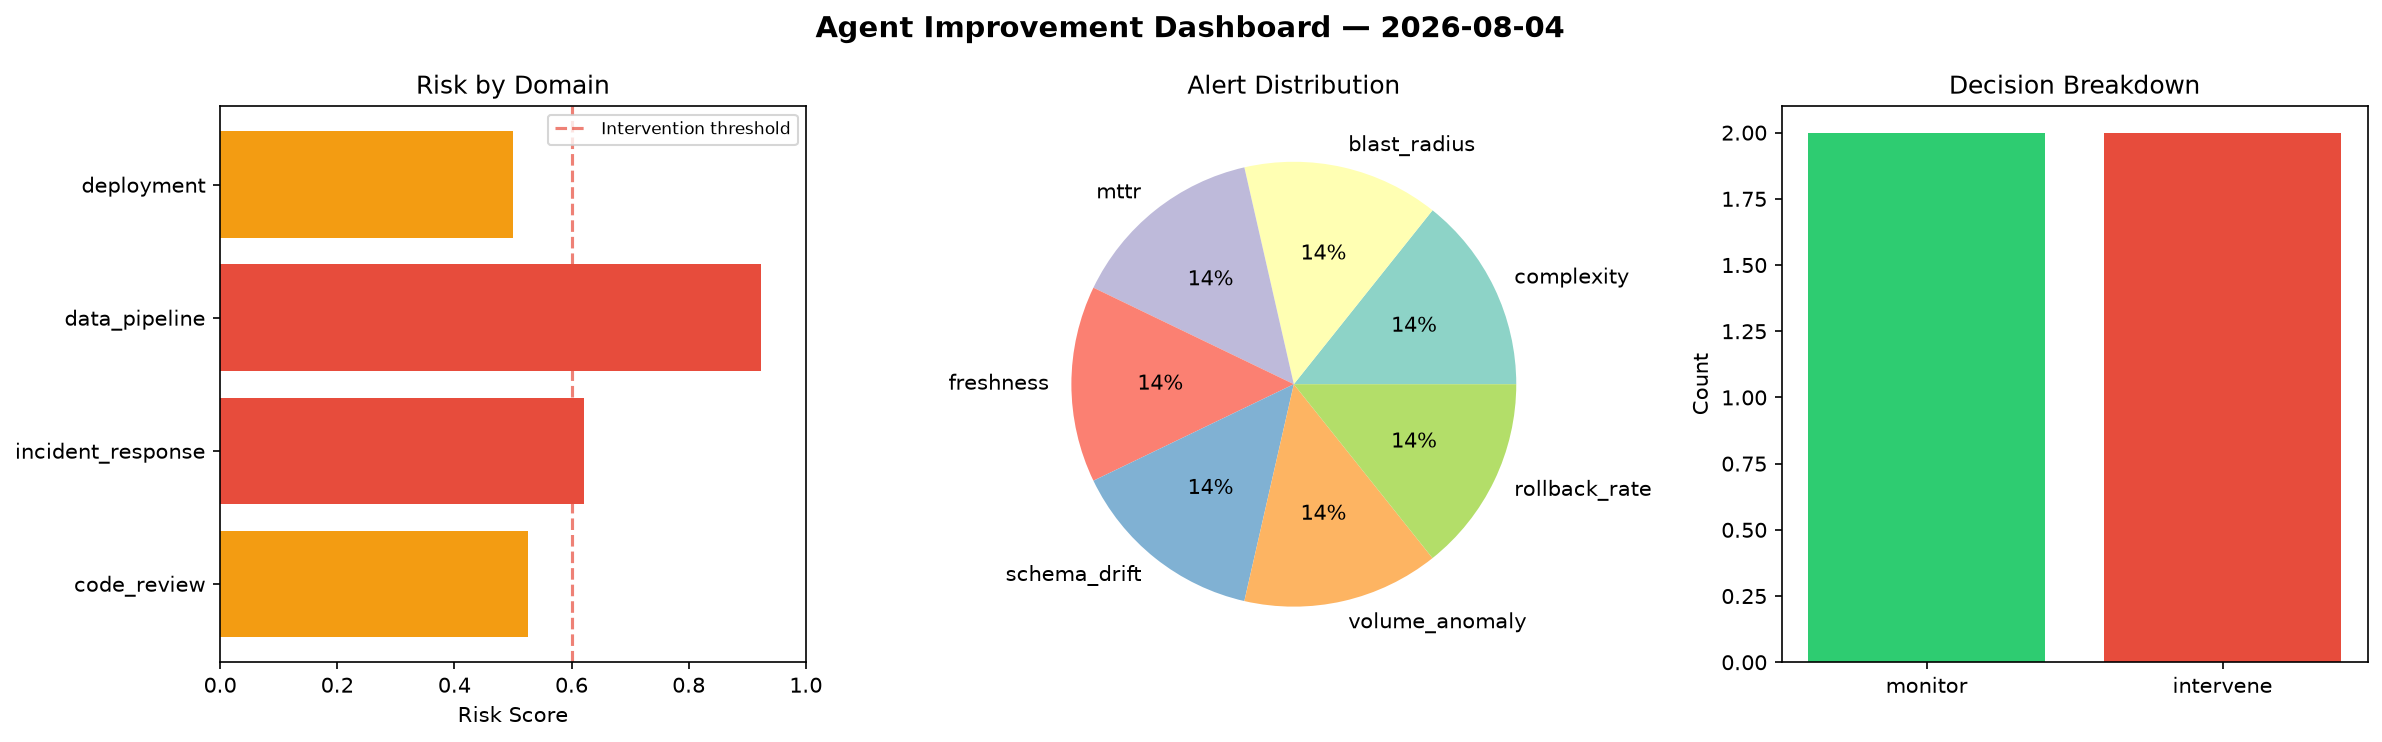
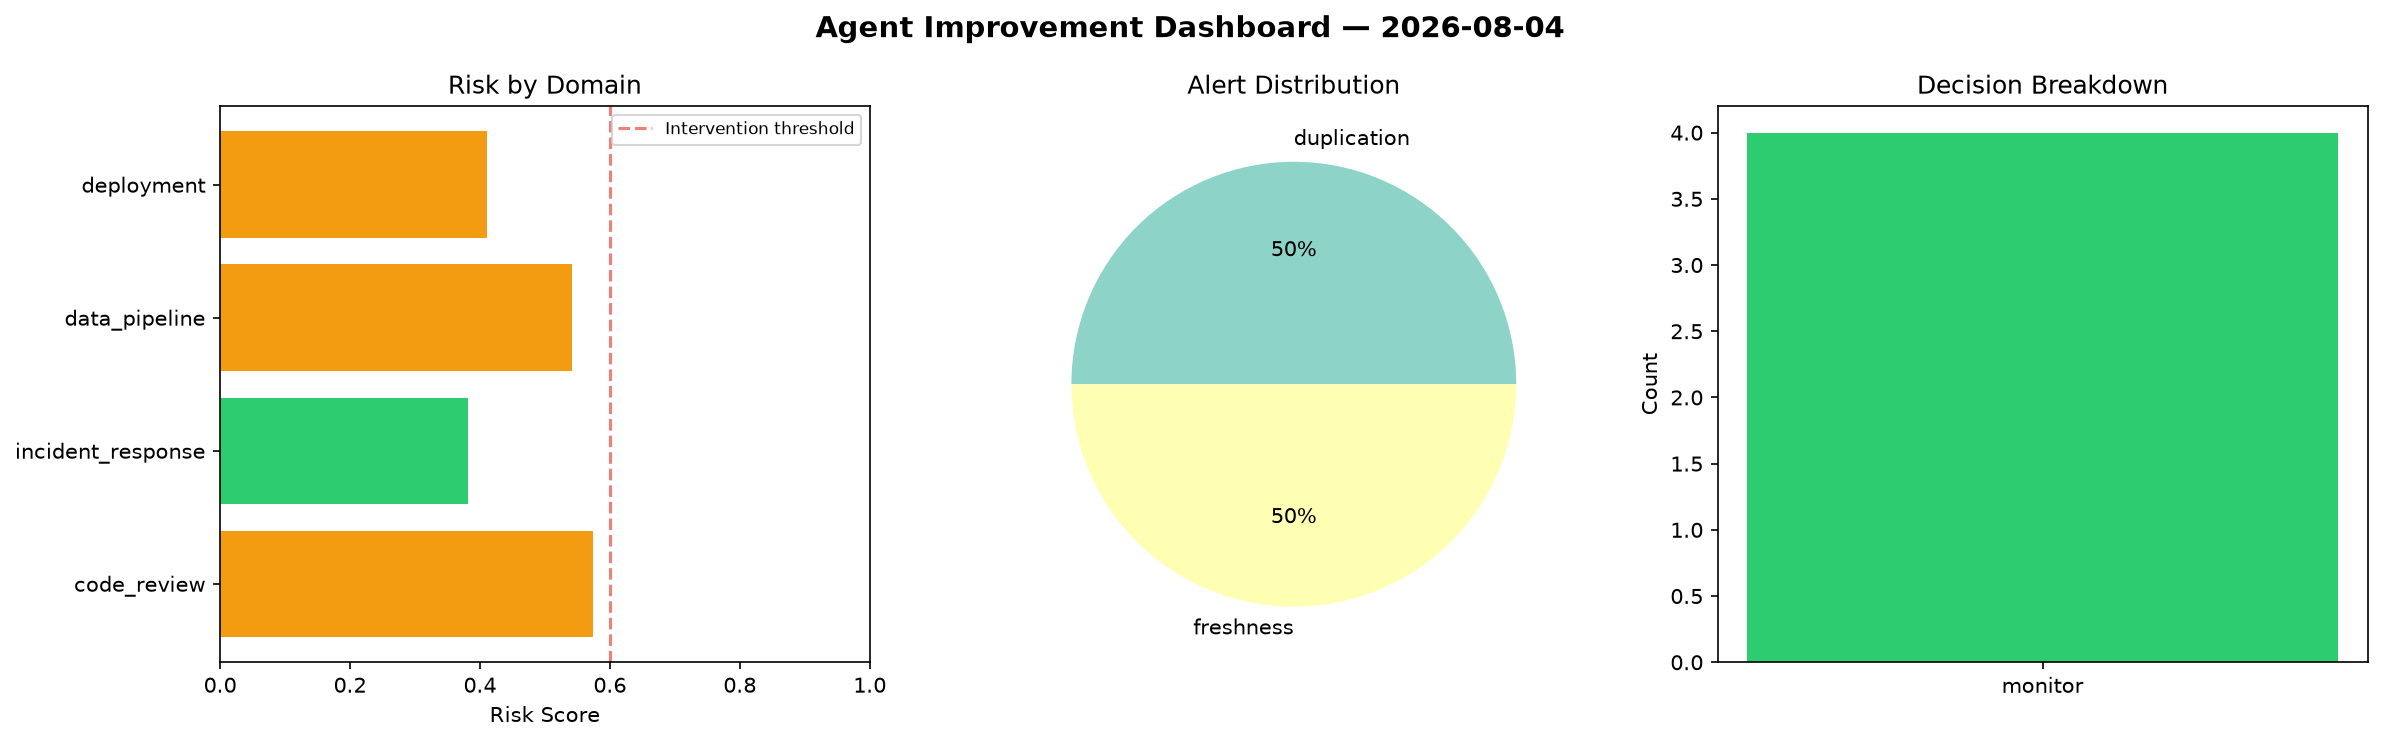
agent-improvement: daily cycle 2026-08-04T10:49

diff --git a/logs/2026-08-04.md b/logs/2026-08-04.md
@@ -1,6 +1,6 @@
 # Agent Improvement Report — 2026-08-04
 
-**Cycle ID:** `fe316e3f` | **Avg Risk:** 0.6423 | **Interventions:** 2/4
+**Cycle ID:** `457ea58b` | **Avg Risk:** 0.4768 | **Interventions:** 0/4
 
 ![Dashboard](2026-08-04_dashboard.png)
 
@@ -10,18 +10,18 @@
 
 | Domain | Risk Score | Decision | Alerts |
 |--------|-----------|----------|--------|
-| code_review | 0.5263 | monitor | complexity |
-| incident_response | 0.6207 | intervene | blast_radius, mttr |
-| data_pipeline | 0.9226 | intervene | freshness, schema_drift, volume_anomaly |
-| deployment | 0.4995 | monitor | rollback_rate |
+| code_review | 0.5736 | monitor | duplication |
+| incident_response | 0.3808 | monitor | none |
+| data_pipeline | 0.5414 | monitor | freshness |
+| deployment | 0.4114 | monitor | none |
 
 ## Delta vs Yesterday
 
 | Domain | Today | Yesterday | Change |
 |--------|-------|-----------|--------|
-| code_review | 0.5263 | 0.4307 | 📈 22.2% |
-| incident_response | 0.6207 | 0.1597 | 📈 288.7% |
-| data_pipeline | 0.9226 | 0.6513 | 📈 41.7% |
-| deployment | 0.4995 | 0.4579 | 📈 9.1% |
+| code_review | 0.5736 | 0.4307 | 📈 33.2% |
+| incident_response | 0.3808 | 0.1597 | 📈 138.4% |
+| data_pipeline | 0.5414 | 0.6513 | 📉 -16.9% |
+| deployment | 0.4114 | 0.4579 | 📉 -10.2% |
 
 **Refinement:** `{'adjustment': 'maintain', 'trend': 'improving', 'window': 4}`
